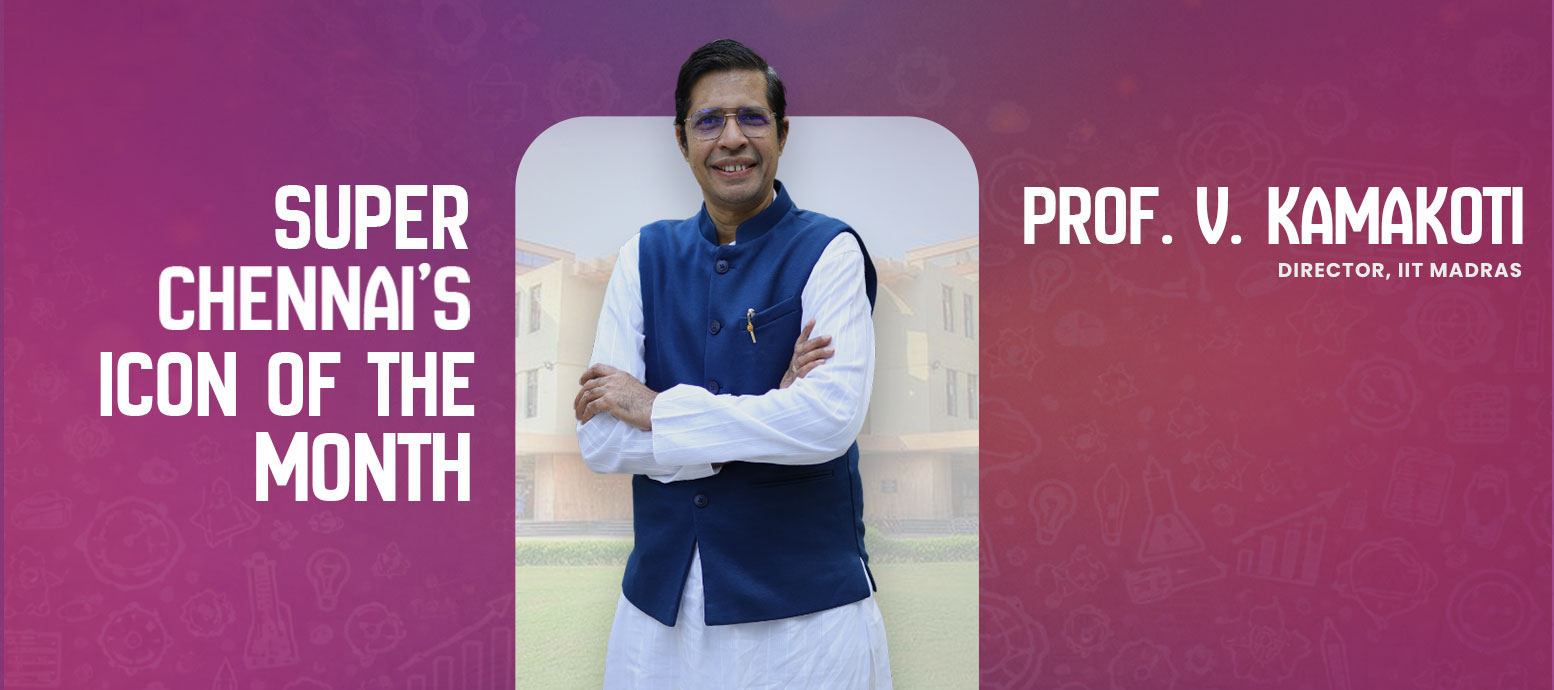
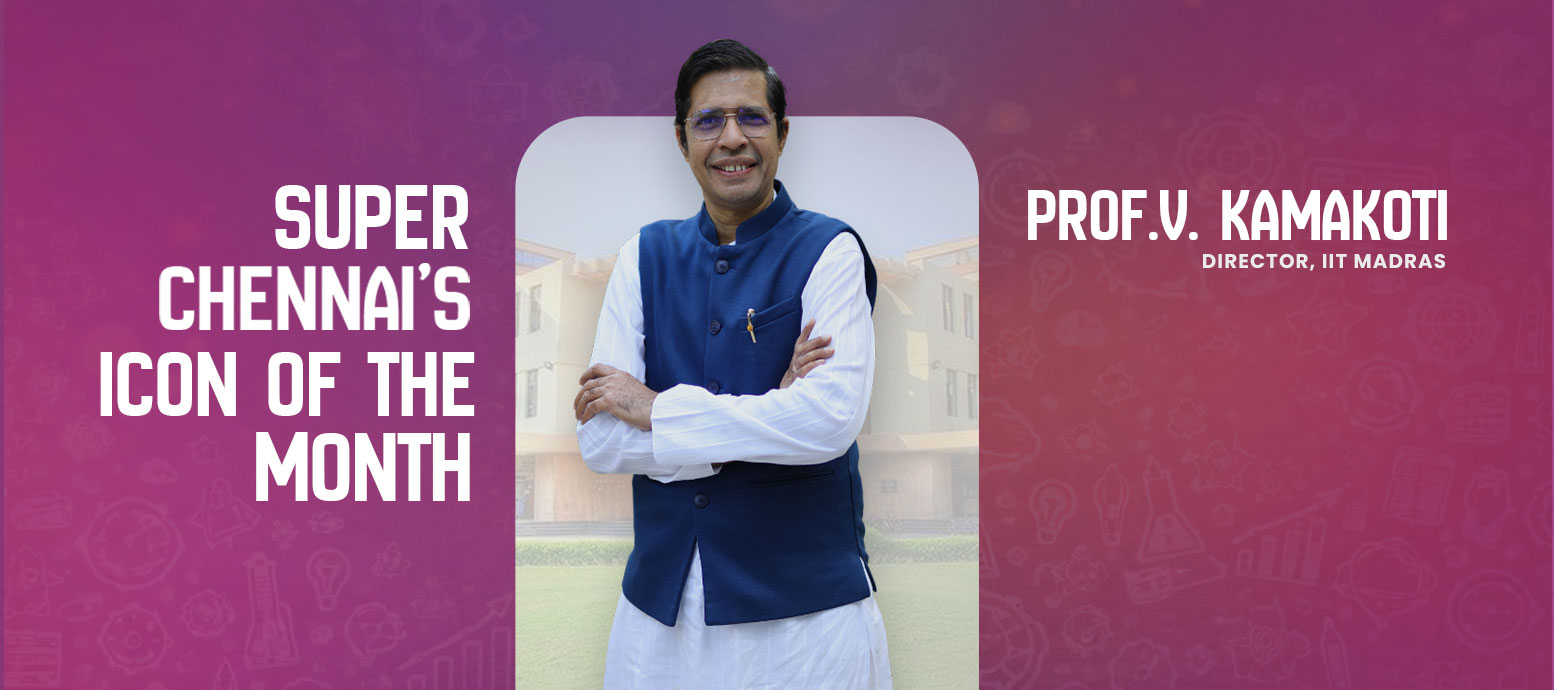
bugs-fix

Changed region(s): [[0.6486, 0.2739, 0.9884, 0.4261]]

diff --git a/src/Pages/Activities/ArrattaiWithKamakotti/araatai-kamakotti.jsx b/src/Pages/Activities/ArrattaiWithKamakotti/araatai-kamakotti.jsx
@@ -222,7 +222,7 @@ export default function ArattaiWithKamakotti() {
 
       <Helmet>
         <title>
-         IIT Madras Director - Super Chennai Arattai with V. Kamakoti
+          IIT Madras Director - Super Chennai Arattai with V. Kamakoti
         </title>
         <meta
           name="description"
@@ -260,15 +260,14 @@ export default function ArattaiWithKamakotti() {
         className="accaodomationBannerSection carquizbanner relative overflow-hidden cursor-pointer akbaralipage"
         onClick={scrollToRegister}
       >
-        {" "}
         <img
           className="hidden sm:block w-full"
           src="/images/kamakoti-banner.jpeg"
           alt="Arattai Event"
         />
         <img
-          className="block sm:hidden w-full"
-          src="/images/jahar-sadiq-mobile.jpg"
+          className="block sm:hidden w-full !h-auto"
+          src="/images/mobile-banner-kamakoti.jpeg"
           alt="Arattai Event"
         />
       </section>
@@ -280,10 +279,8 @@ export default function ArattaiWithKamakotti() {
         <div className="container mx-auto px-6 lg:px-0">
           <div className="max-w-4xl mx-auto text-center">
             <div className="InvestChennaiContent-conclaves ">
-              <h1 className=" text-center hidden ">
-                Arattai with Jahabar sadique{" "}
-              </h1>
-              <h3 className=" text-center"> Arattai with Kamakotti </h3>
+              <h1 className=" text-center hidden ">Arattai with Kamakotti</h1>
+              <h3 className=" text-center"> Arattai with Kamakoti </h3>
 
               <p className="text-gray-600 leading-relaxed mb-6 ">
                 Join us for a candid conversation with Padma Shri V. Kamakoti,
